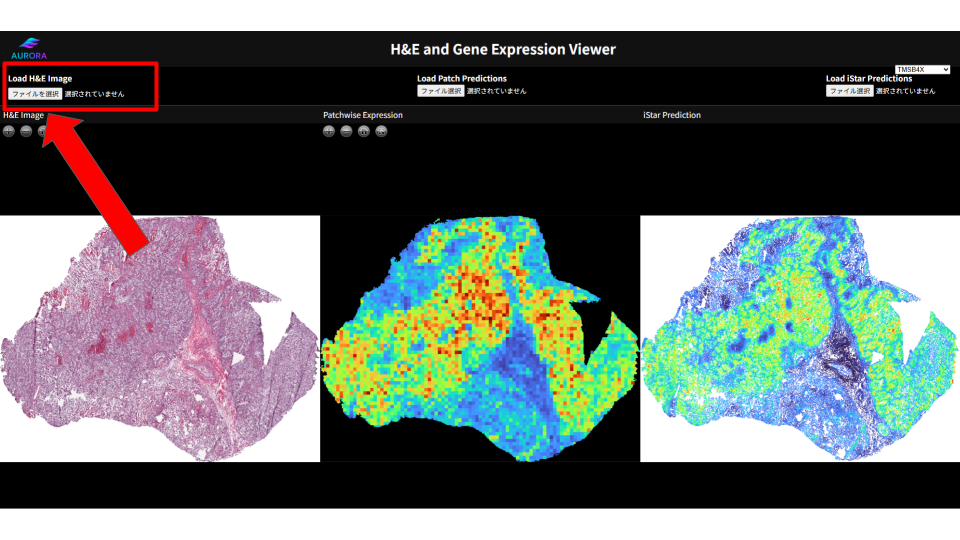
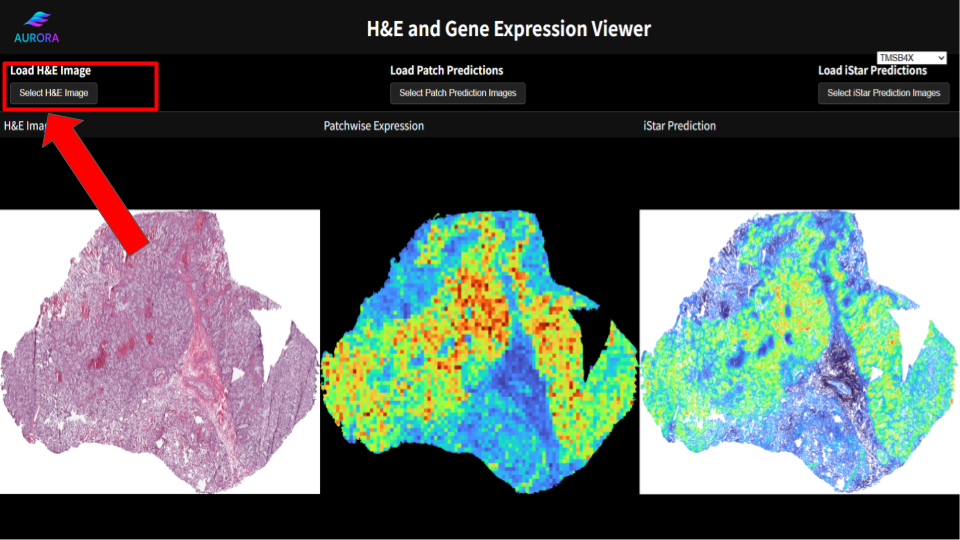
1/27

diff --git a/index.html b/index.html
@@ -69,6 +69,27 @@
         H&E and Gene Expression Viewer
       </h1>
     </header>
+  <style>
+  a {
+    color: white;        /* normal link color */
+    /*text-decoration: none; /* remove underline if you want */
+  }
+
+  a:visited {
+    color: white;    /* after link is clicked */
+  }
+
+  a:hover {
+    color: orange;       /* when you hover over the link */
+  }
+
+  a:active {
+    color: white;          /* when you click the link */
+  }
+  </style>
+    <a href="https://github.com/yoshiakiyam/gene_pred_viewer/tree/gh-pages?tab=readme-ov-file#aurora-he--gene-expression-viewer" target="_blank" rel="noopener noreferrer" style="font-size: 40px;">
+    Click here to see the tutorial
+    </a>
 
     <!-- CONTROLS -->
     <div

diff --git a/README.md b/README.md
@@ -1,15 +1,16 @@
 # AURORA H&E + Gene Expression Viewer
-
+ 
 An interactive web-based viewer for visualizing H&E slide images alongside
 patch-wise and iStar gene expression predictions.
 
 ## Input File:
+You can download the following input files from XXX:
 
-**{name of dataset}.png** - The H&E image of the sample
+- **{name of dataset}.png** - The H&E image of the sample
 
-**{name of dataset}-{gene name}-patchwise-224.png** - Patch prediction of the gene in the sample
+- **{name of dataset}-{gene name}-patchwise-224.png** - Patch prediction of the gene in the sample
 
-**{name of dataset}-iStar-{gene name}.png** - Patch prediction of the gene in the sample
+- **{name of dataset}-iStar-{gene name}.png** - Patch prediction of the gene in the sample
 
 ## Instructions:
 
@@ -31,5 +32,5 @@ patch-wise and iStar gene expression predictions.
 ### 4. Select the gene
 - Select the gene of interest by clicking the dropdown above the text "Load iStar Prediction".
 
-<img width="960" height="540" alt="無題のプレゼンテーション" src="https://github.com/user-attachments/assets/4ef41957-b550-4b97-b000-227b741fb8bd" />
-
+![H&E + Gene Viewer Screenshot](assets/screenshot4.png)
+ 
